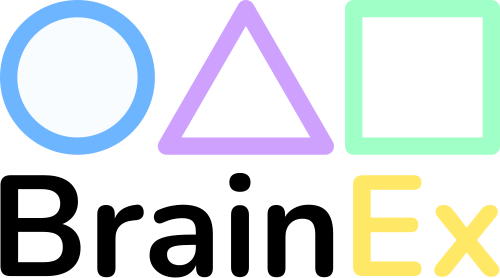
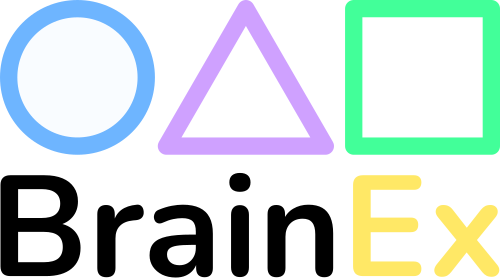
cambio estilos e imgs colors

Changed region(s): [[0.69, 0.0, 1.0, 0.5755]]

diff --git a/BrainEx/wwwroot/css/layout.css b/BrainEx/wwwroot/css/layout.css
@@ -100,6 +100,13 @@ span.addVerdeColor { color: var(--verde_menta); }
     border-top: none;
 }
 
+#loginModal #login-tab-pane > form,
+#loginModal #register-tab-pane > form {
+    display: flex;
+    flex-direction: column;
+    align-items: center;
+}
+
 #loginModal #login-tab-pane > form > div, #loginModal #register-tab-pane > form > div { width: 100%; }
 
 /* === Inputs y botones === */
